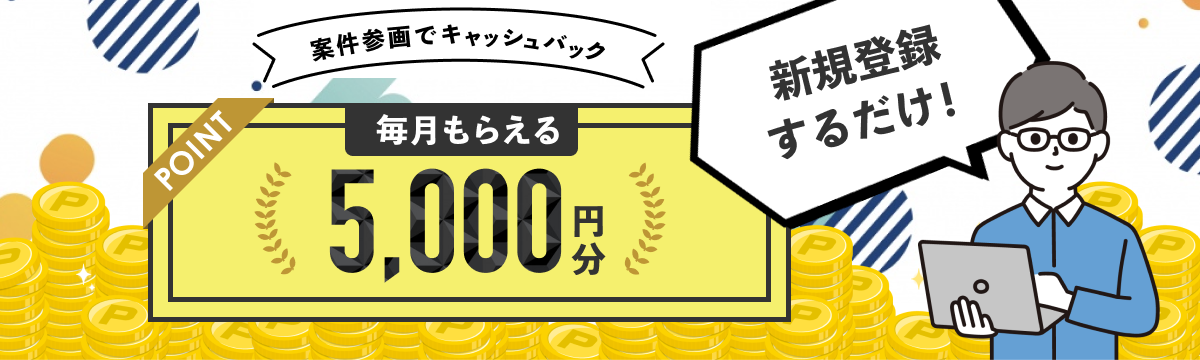
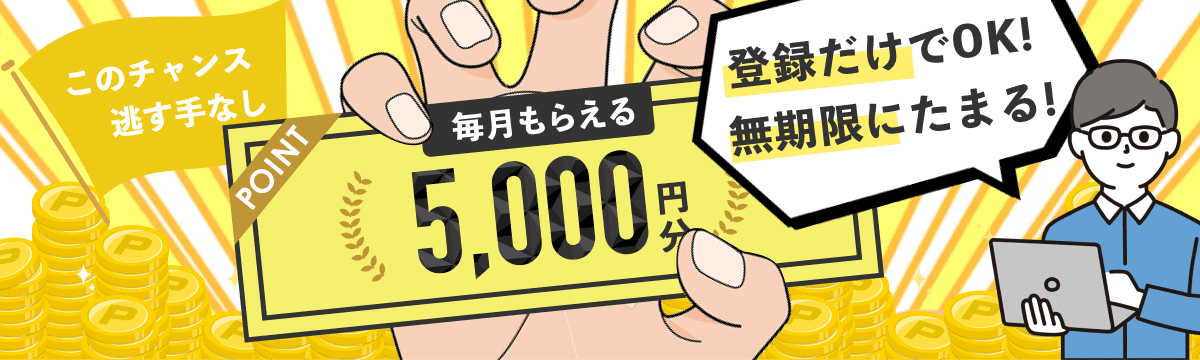
update

diff --git a/app/resources/views/front/pages/top/top.blade.php b/app/resources/views/front/pages/top/top.blade.php
@@ -30,7 +30,7 @@
 
   <div class="l-container">
     <a href="">
-      <img src="{{ asset('/images/hero/hero_03.png') }}" alt="スマートなフリーランス画像">
+      <img src="{{ asset('/images/hero/hero_01.png') }}" alt="スマートなフリーランス画像">
     </a>
 
     <ul class="p-searchTab u-mt-30">
